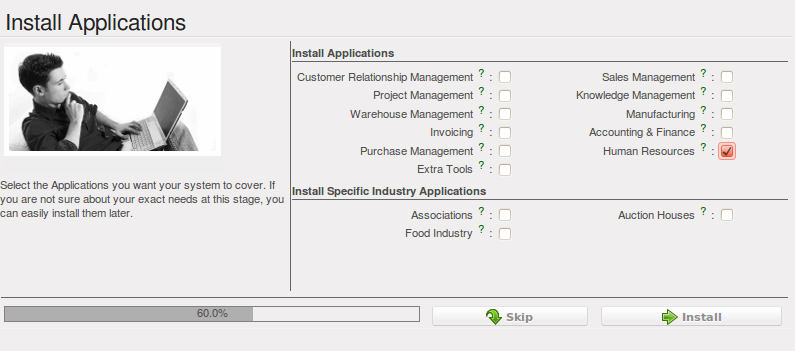
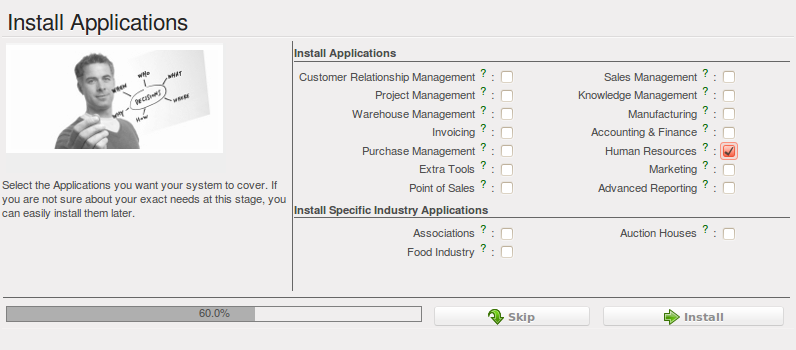
[IMP]: HR screenshots.

diff --git a/4/4_11_HR/4_11_HR_hire_new_people.rst b/4/4_11_HR/4_11_HR_hire_new_people.rst
@@ -54,9 +54,7 @@ The information about the :guilabel:`Job Position` can be maintained by the menu
    :scale: 50
    :align: center
 
-   *Job Position in your Organization*
-
-You can analyse data of the recruitment process through the menu :menuselection:`Human Resources --> Reporting --> Recruitment Analysis`.
+   *Job Position in the organization*
 
 The key features of OpenERP for the process of hiring the new people using :mod:`hr_recruitment` module.
 
